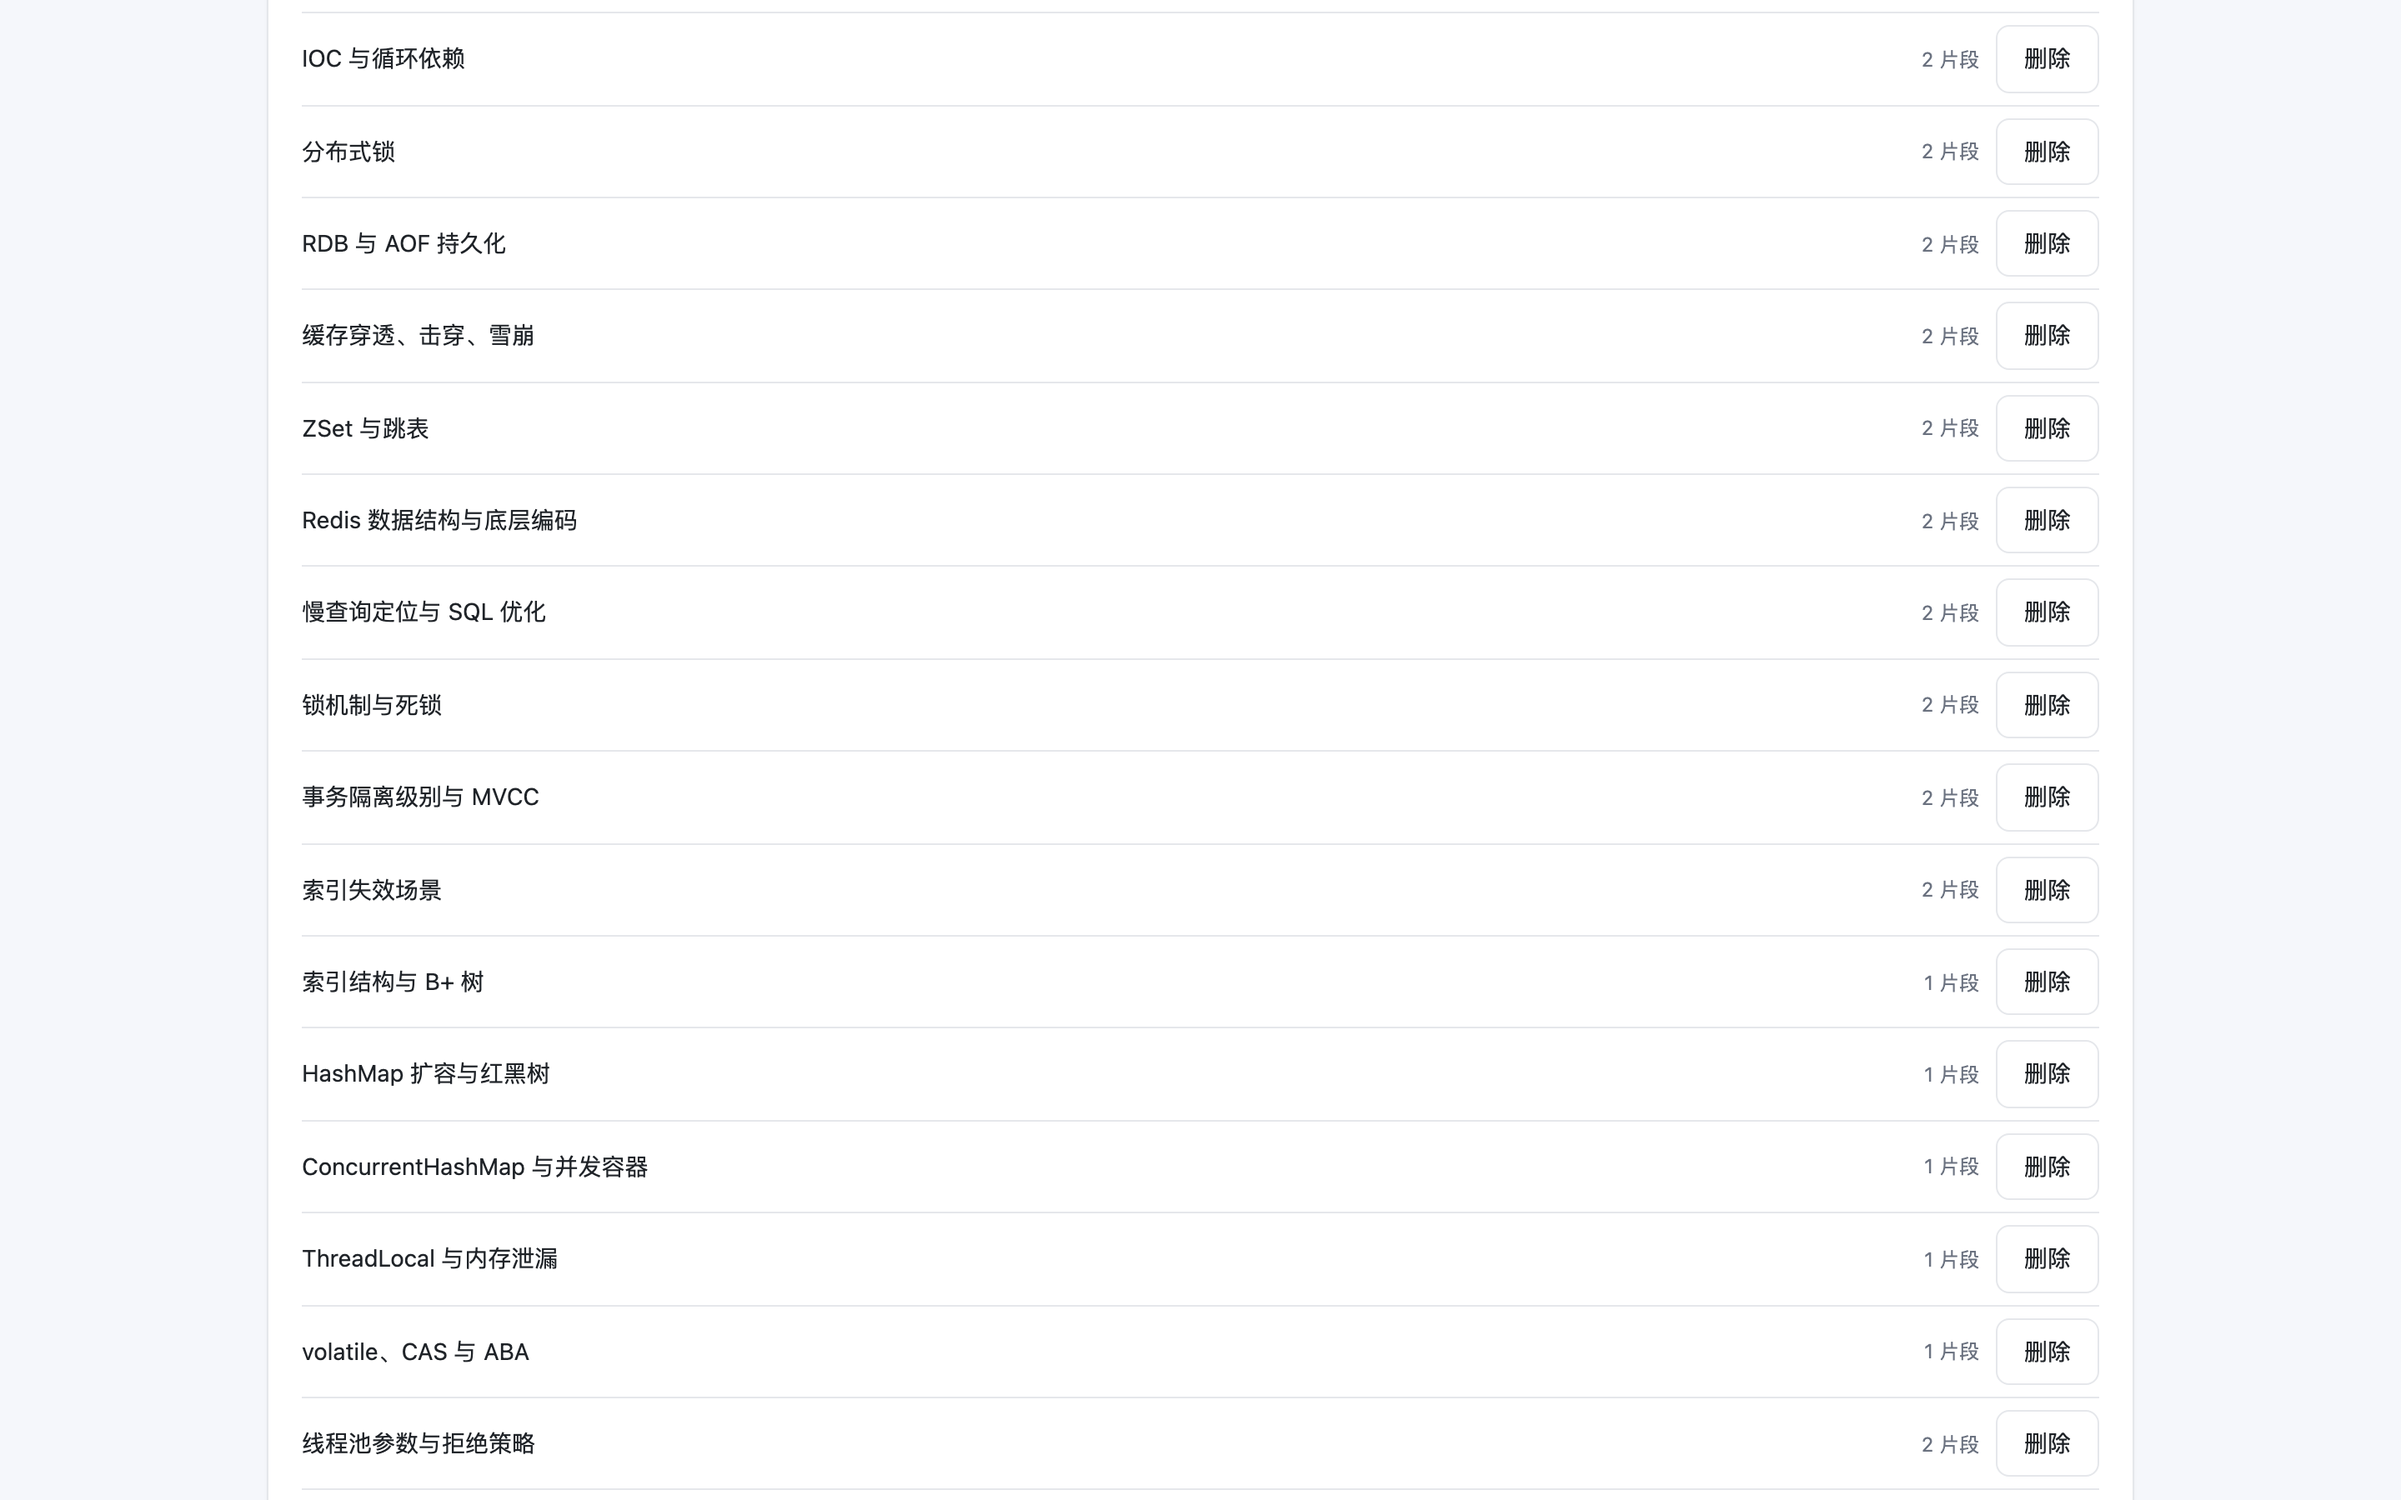
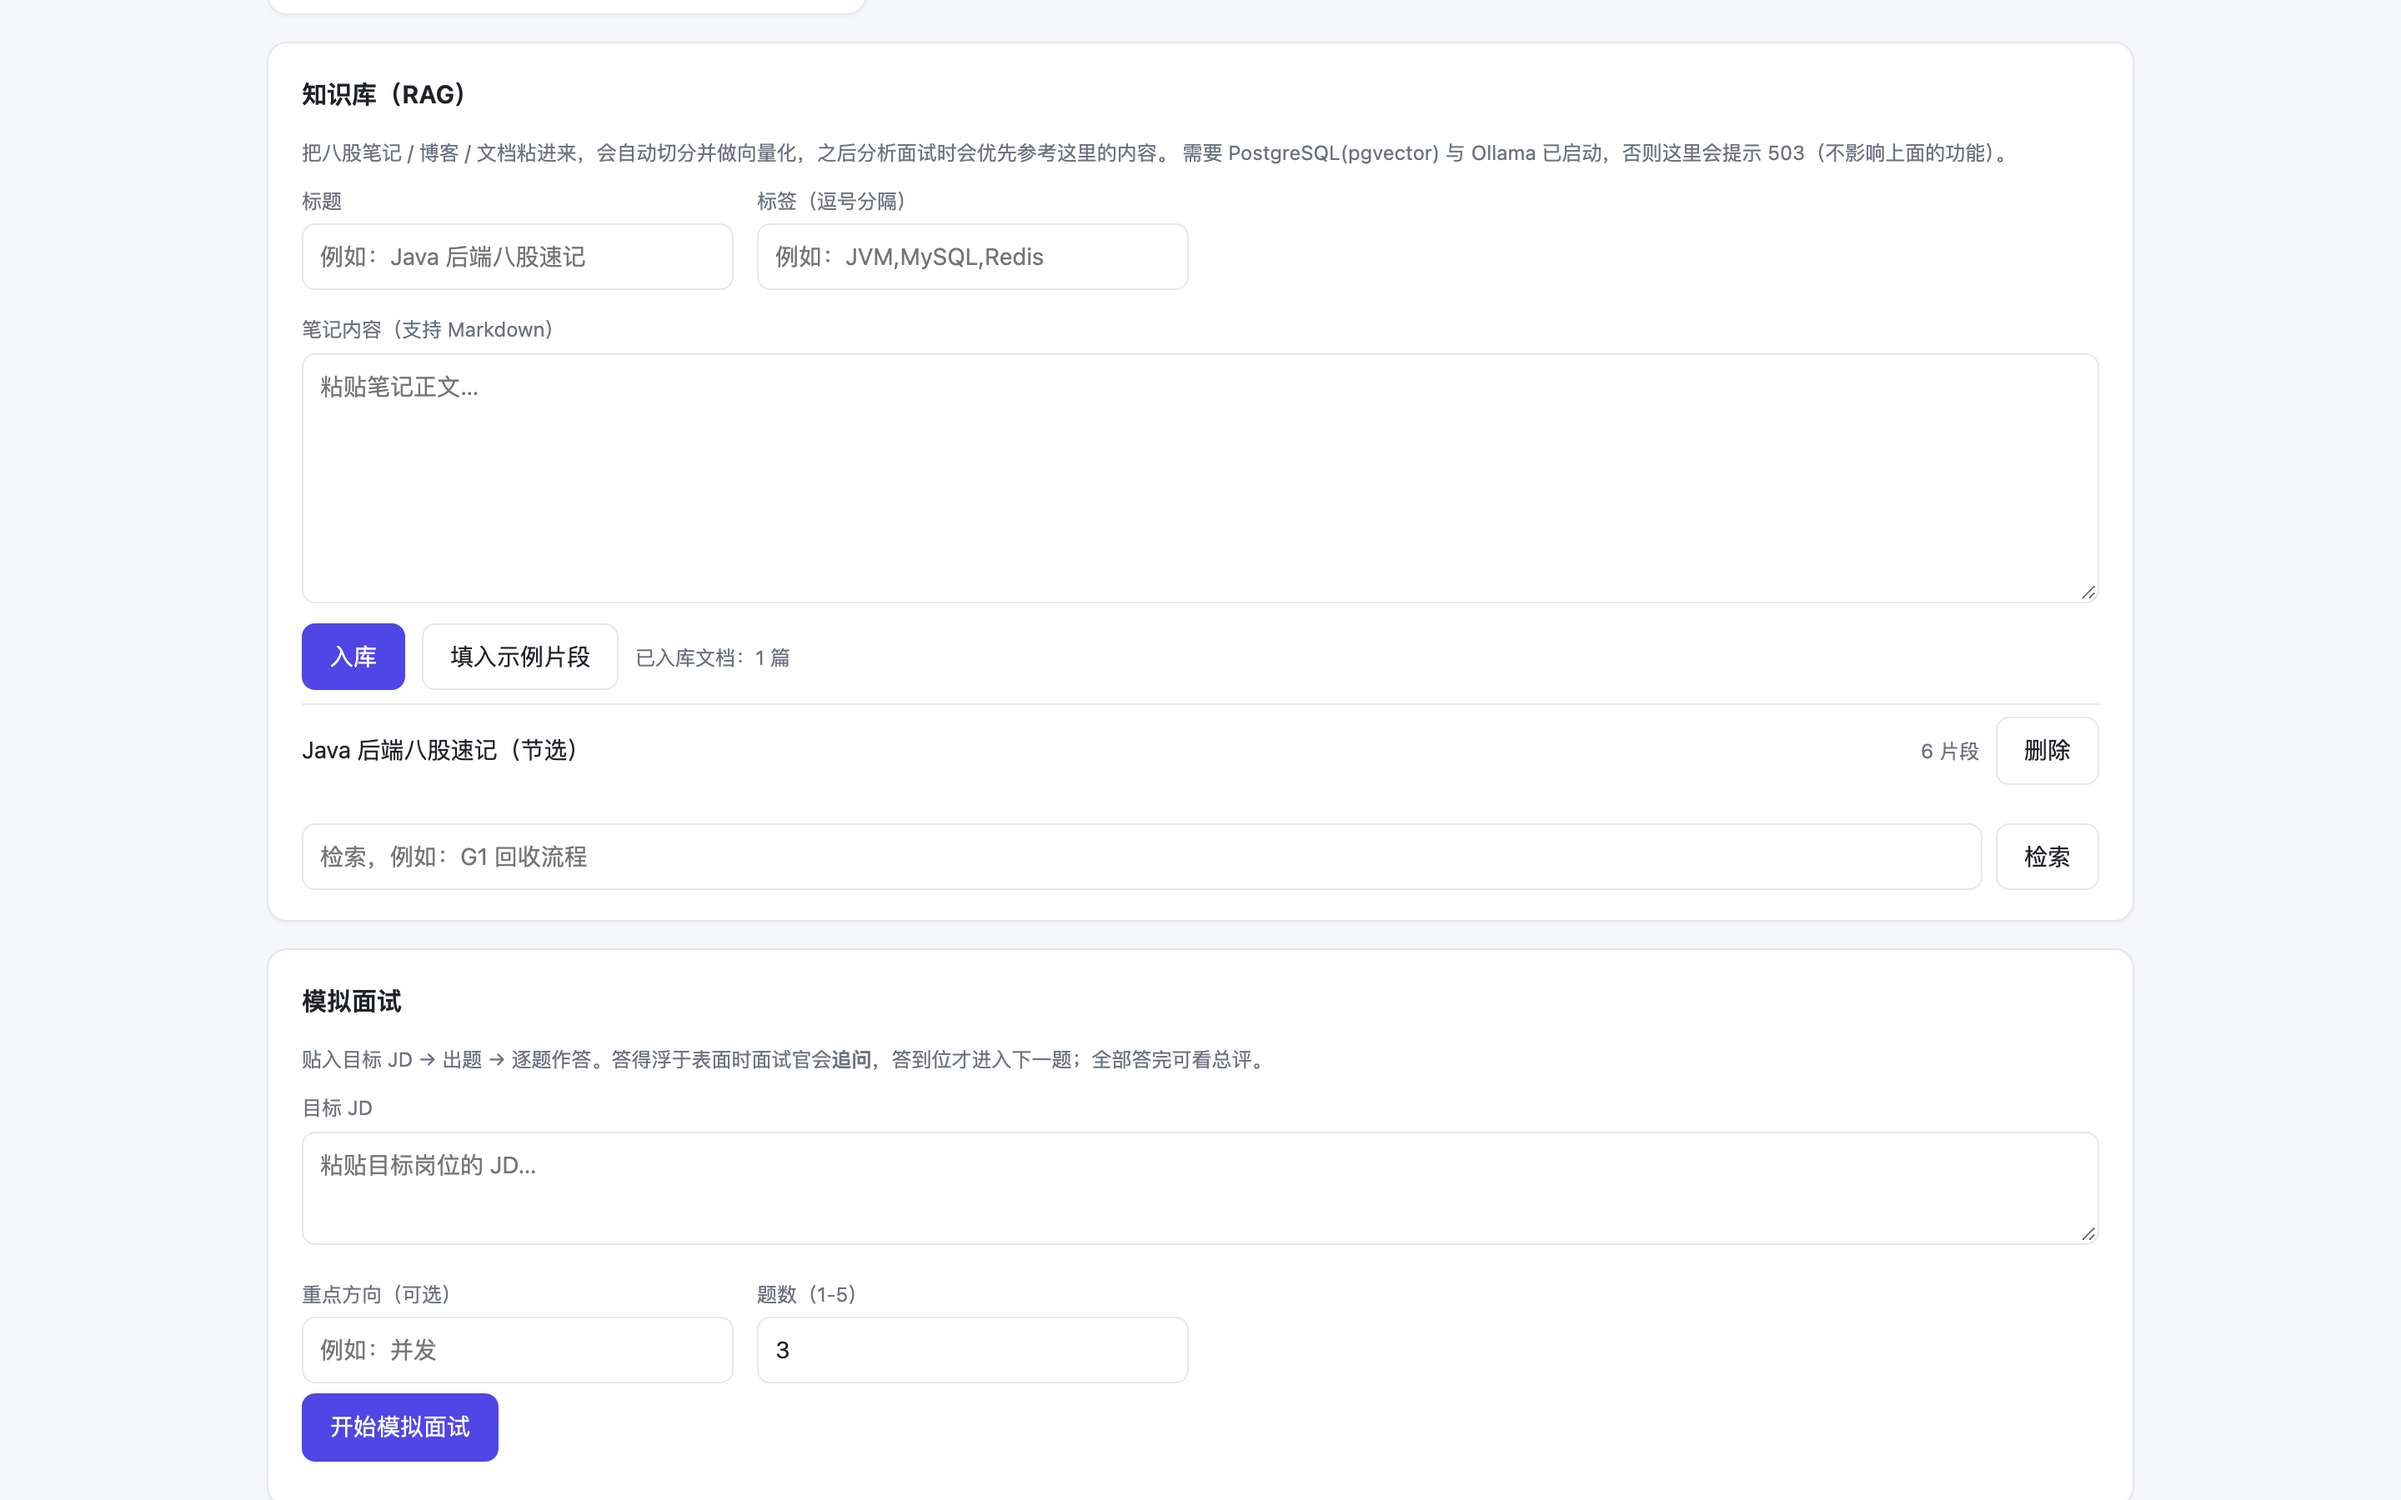
docs: 界面预览补登录截图，截图脚本自动登录后再采集

diff --git a/scripts/ui-shot.js b/scripts/ui-shot.js
@@ -21,15 +21,27 @@ const sleep = (ms) => new Promise((r) => setTimeout(r, ms));
   await page.setViewport({ width: 1440, height: 900, deviceScaleFactor: 2 });
 
   await page.goto(BASE, { waitUntil: 'networkidle2', timeout: 60000 });
-  await page.waitForSelector('#records .record', { timeout: 20000 });
+
+  // 0. 未登录：先截登录页（鉴权开启时的第一印象）
+  await page.waitForSelector('#loginOverlay', { timeout: 20000 });
+  await sleep(600);
+  await page.screenshot({ path: path.join(OUT, '00-login.png') });
+  console.log('[0/4] 登录页（JWT 鉴权）');
+
+  // 登录演示账号，再截业务界面
+  await page.type('#loginUser', process.env.SMOKE_USER || 'demo');
+  await page.type('#loginPass', process.env.SMOKE_PASS || 'demo123');
+  await page.click('#loginBtn');
+
+  await page.waitForSelector('#records .record', { timeout: 30000 });
   await sleep(800);
   await page.screenshot({ path: path.join(OUT, '01-overview.png') });
-  console.log('[1/3] 首屏（录入表单 + 历史记录）');
+  console.log('[1/4] 首屏（录入表单 + 历史记录）');
 
   await page.click('#records .record');
   await sleep(3000);
   await page.screenshot({ path: path.join(OUT, '02-detail-report.png') });
-  console.log('[2/3] 详情 + 复盘报告');
+  console.log('[2/4] 详情 + 复盘报告');
 
   await page.evaluate(() => {
     const el = document.getElementById('kbDocList') || document.getElementById('kbUpload');
@@ -37,7 +49,8 @@ const sleep = (ms) => new Promise((r) => setTimeout(r, ms));
   });
   await sleep(700);
   await page.screenshot({ path: path.join(OUT, '03-knowledge-base.png') });
-  console.log('[3/3] 知识库（含删除按钮）');
+  console.log('[3/4] 知识库（含删除按钮）');
+  console.log('[4/4] 完成');
 
   await browser.close();
   console.log('done ->', OUT);

diff --git a/README.md b/README.md
@@ -122,9 +122,13 @@ bash scripts/verify-all.sh     # 全功能自检：28 项，逐项 PASS/FAIL
 
 > 截图在**离线桩模式**（未配置 API Key）下采集 —— 零依赖即可复现：
 > `./run.sh` 后访问 <http://localhost:8080>，或跑 `node scripts/ui-shot.js` 自动重截
-> （用本机 Chrome + puppeteer-core，无头模式）。
+> （用本机 Chrome + puppeteer-core，无头模式，自动完成登录后采集）。
 
-**录入与分析**：填表录入面试 → 左侧历史记录 → 右侧详情。分析完成后，弱项会**回写到题目卡片**上（红框标注）。
+**登录**：默认开启 JWT 鉴权，未登录时业务区被遮罩挡住；演示账号 `demo / demo123` 随启动自动创建，也可现场注册。
+
+![登录](docs/screenshots/00-login.png)
+
+**录入与分析**：填表录入面试 → 左侧历史记录 → 右侧详情。分析完成后，弱项会**回写到题目卡片**上（红框标注）。顶栏显示当前用户与所属数据库。
 
 ![录入与历史](docs/screenshots/01-overview.png)
 
